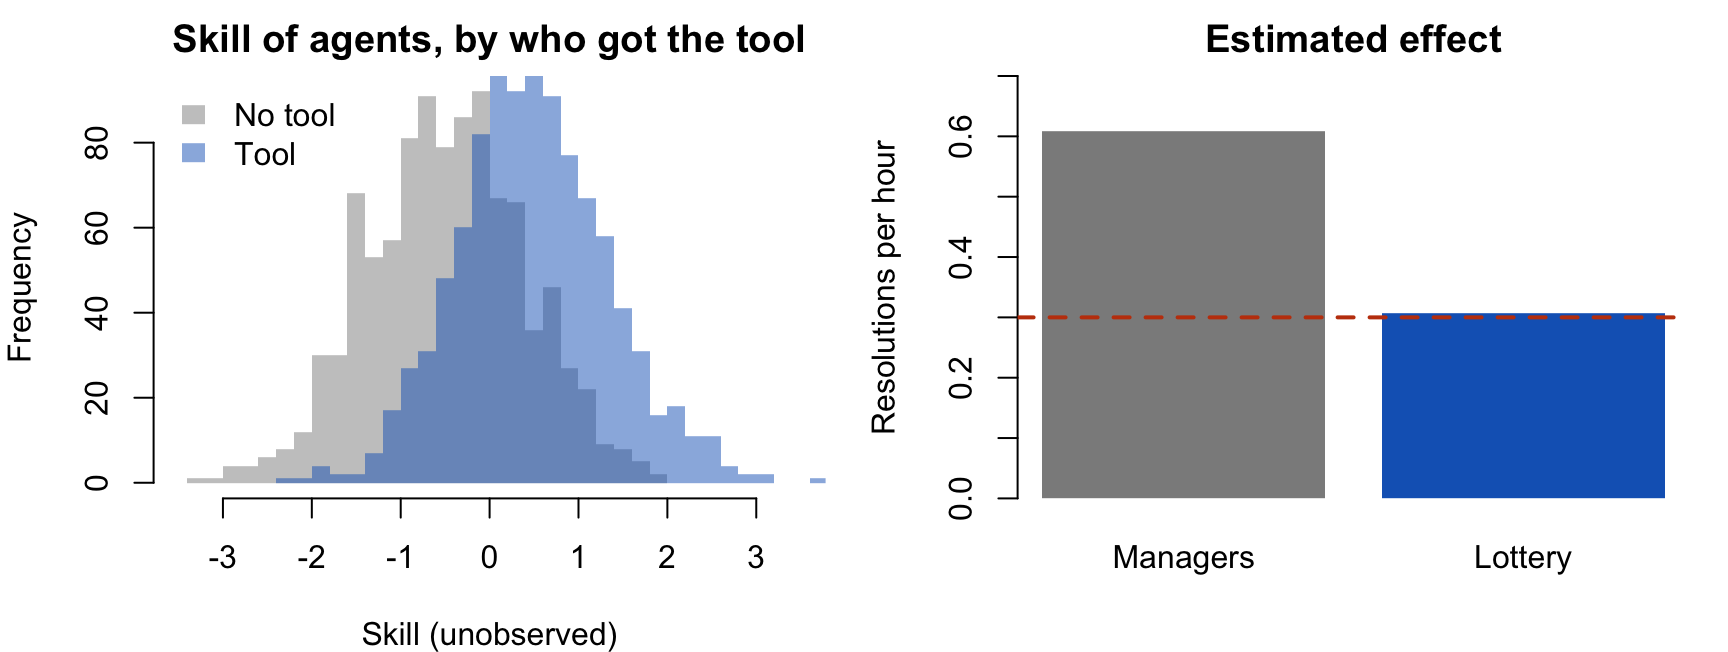
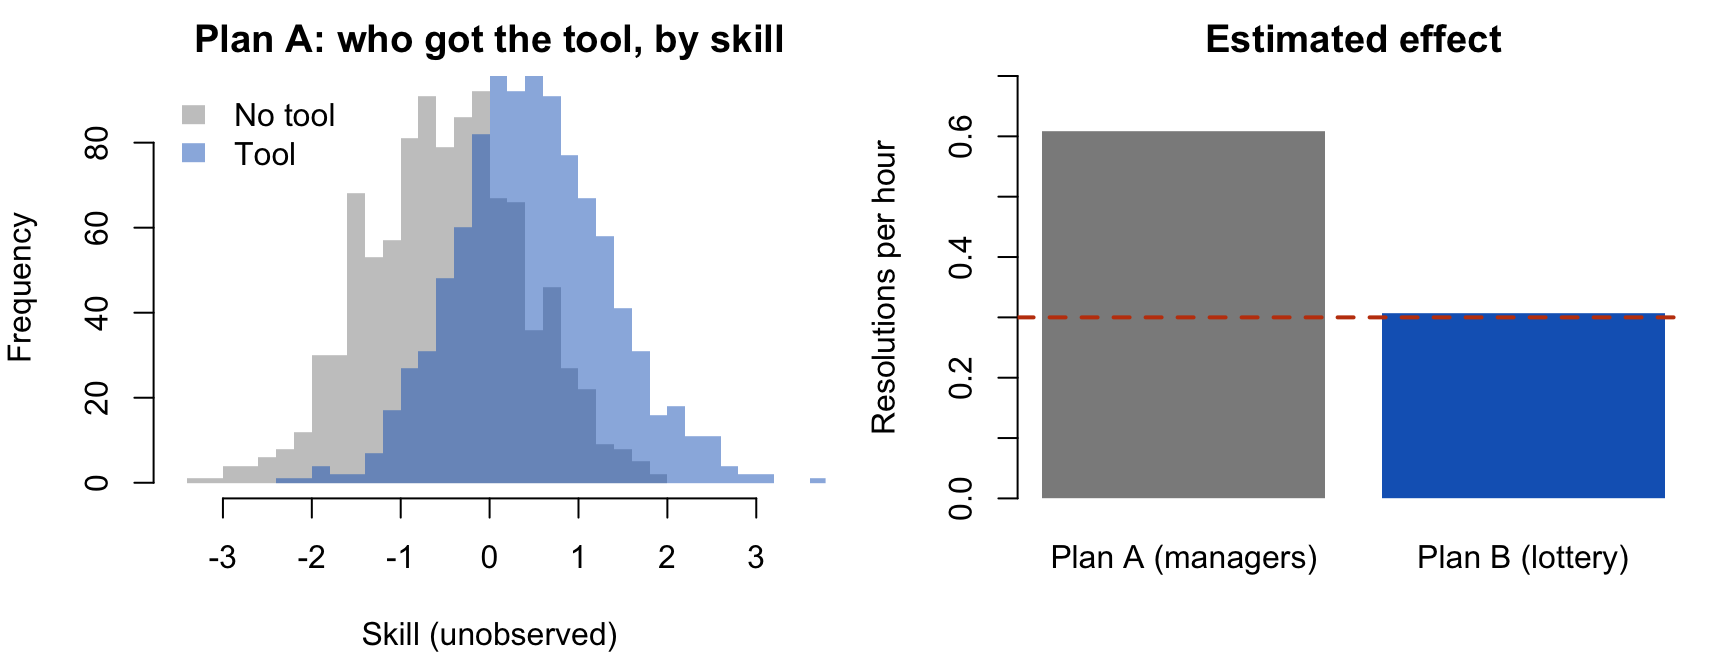
Clarify Design 1 and the Chapter 2 running example

Changed region(s): [[0.0938, 0.0307, 0.4688, 0.092], [0.5938, 0.8282, 0.75, 0.8896], [0.8125, 0.8282, 0.9375, 0.8896]]

diff --git a/docs/Lectures/Ch02-Causal-Framework/Lecture-Causal-Framework.html b/docs/Lectures/Ch02-Causal-Framework/Lecture-Causal-Framework.html
@@ -390,6 +390,7 @@ window.Quarto = {
   <ul>
   <li><a href="#potential-outcomes" id="toc-potential-outcomes" class="nav-link active" data-scroll-target="#potential-outcomes">Potential Outcomes</a>
   <ul class="collapse">
+  <li><a href="#the-running-example" id="toc-the-running-example" class="nav-link" data-scroll-target="#the-running-example">The Running Example</a></li>
   <li><a href="#units-treatments-outcomes" id="toc-units-treatments-outcomes" class="nav-link" data-scroll-target="#units-treatments-outcomes">Units, Treatments, Outcomes</a></li>
   <li><a href="#a-potential-outcomes-table" id="toc-a-potential-outcomes-table" class="nav-link" data-scroll-target="#a-potential-outcomes-table">A Potential Outcomes Table</a></li>
   <li><a href="#what-happens-when-managers-choose" id="toc-what-happens-when-managers-choose" class="nav-link" data-scroll-target="#what-happens-when-managers-choose">What Happens When Managers Choose</a></li>
@@ -458,11 +459,33 @@ window.Quarto = {
 <ul>
 <li>Chapter 1 introduced the fundamental problem: we never see both potential outcomes for the same unit.</li>
 <li>This chapter builds the language used in the rest of the notes: potential outcomes, estimands, the assumptions about treatments (SUTVA), assignment mechanisms, and causal diagrams for deciding what to control for.</li>
-<li>The running example is a firm giving some workers access to a generative AI assistant.</li>
+<li>The running example is a firm giving some customer-support agents access to a generative AI assistant.</li>
 </ul>
 </div>
 <section id="potential-outcomes" class="level2">
 <h2 class="anchored" data-anchor-id="potential-outcomes">Potential Outcomes</h2>
+<section id="the-running-example" class="level3">
+<h3 class="anchored" data-anchor-id="the-running-example">The Running Example</h3>
+<div class="callout callout-style-default callout-note callout-titled">
+<div class="callout-header d-flex align-content-center">
+<div class="callout-icon-container">
+<i class="callout-icon"></i>
+</div>
+<div class="callout-title-container flex-fill">
+<span class="screen-reader-only">Note</span>An AI Assistant for Customer-Support Agents
+</div>
+</div>
+<div class="callout-body-container callout-body">
+<ul>
+<li><strong>Setting:</strong> the customer-support centre from the Chapter 1 case study. Agents answer customers’ questions in live chats.</li>
+<li><strong>Treatment:</strong> access to a generative AI assistant that reads each chat and suggests replies. Agents can accept, edit, or ignore the suggestions.</li>
+<li><strong>Outcome:</strong> tickets (customer issues) resolved per hour.</li>
+<li><strong>Question:</strong> how many more tickets per hour does an agent resolve with the assistant than without it?</li>
+</ul>
+<p>We follow eight agents, from new to expert, through this chapter. Real studies of such tools find the largest gains for less experienced agents (Chapters 8 and 9), and the made-up numbers here follow that pattern.</p>
+</div>
+</div>
+</section>
 <section id="units-treatments-outcomes" class="level3">
 <h3 class="anchored" data-anchor-id="units-treatments-outcomes">Units, Treatments, Outcomes</h3>
 <div class="callout callout-style-default callout-note callout-titled">
@@ -506,14 +529,14 @@ window.Quarto = {
 <i class="callout-icon"></i>
 </div>
 <div class="callout-title-container flex-fill">
-<span class="screen-reader-only">Note</span>Eight Customer-Support Workers (a Thought Experiment)
+<span class="screen-reader-only">Note</span>Eight Support Agents (Made-Up Numbers)
 </div>
 </div>
 <div class="callout-body-container callout-body">
 <table class="caption-top table">
 <thead>
 <tr class="header">
-<th>Worker</th>
+<th>Agent</th>
 <th style="text-align: center;"><span class="math inline">Y_i(0)</span>: without AI</th>
 <th style="text-align: center;"><span class="math inline">Y_i(1)</span>: with AI</th>
 <th style="text-align: center;"><span class="math inline">\tau_i</span></th>
@@ -570,7 +593,7 @@ window.Quarto = {
 </tr>
 </tbody>
 </table>
-<p>Average effect: <span class="math inline">\frac{1}{8}\sum_i \tau_i = +0.25</span> tickets per hour. Effects differ across workers, and in reality we only ever see one column for each.</p>
+<p>Average effect: <span class="math inline">\frac{1}{8}\sum_i \tau_i = +0.25</span> tickets per hour. Effects differ across agents, and in reality we only ever see one of the two outcome columns for each agent.</p>
 </div>
 </div>
 <div class="notes">
@@ -581,6 +604,7 @@ window.Quarto = {
 </section>
 <section id="what-happens-when-managers-choose" class="level3">
 <h3 class="anchored" data-anchor-id="what-happens-when-managers-choose">What Happens When Managers Choose</h3>
+<p>The table shows both outcomes for every agent, which real data never do. We use it to see what an observed comparison would report under two ways of handing out the tool: managers give it to their four strongest agents (E–H), or a lottery picks four agents. Because we know the true average effect (0.25), we can check which comparison gets it right.</p>
 <div class="cell">
 <details class="code-fold">
 <summary>Code</summary>
@@ -591,7 +615,7 @@ window.Quarto = {
 <span id="cb1-5"><a href="#cb1-5" aria-hidden="true" tabindex="-1"></a>)</span>
 <span id="cb1-6"><a href="#cb1-6" aria-hidden="true" tabindex="-1"></a>ate <span class="ot">&lt;-</span> <span class="fu">mean</span>(po<span class="sc">$</span>y1 <span class="sc">-</span> po<span class="sc">$</span>y0)</span>
 <span id="cb1-7"><a href="#cb1-7" aria-hidden="true" tabindex="-1"></a></span>
-<span id="cb1-8"><a href="#cb1-8" aria-hidden="true" tabindex="-1"></a><span class="co"># Scenario 1: managers give AI to their four strongest workers</span></span>
+<span id="cb1-8"><a href="#cb1-8" aria-hidden="true" tabindex="-1"></a><span class="co"># Scenario 1: managers give AI to their four strongest agents</span></span>
 <span id="cb1-9"><a href="#cb1-9" aria-hidden="true" tabindex="-1"></a>d_mgr <span class="ot">&lt;-</span> <span class="fu">as.integer</span>(po<span class="sc">$</span>worker <span class="sc">%in%</span> <span class="fu">c</span>(<span class="st">"E"</span>, <span class="st">"F"</span>, <span class="st">"G"</span>, <span class="st">"H"</span>))</span>
 <span id="cb1-10"><a href="#cb1-10" aria-hidden="true" tabindex="-1"></a>naive_mgr <span class="ot">&lt;-</span> <span class="fu">mean</span>(po<span class="sc">$</span>y1[d_mgr <span class="sc">==</span> <span class="dv">1</span>]) <span class="sc">-</span> <span class="fu">mean</span>(po<span class="sc">$</span>y0[d_mgr <span class="sc">==</span> <span class="dv">0</span>])</span>
 <span id="cb1-11"><a href="#cb1-11" aria-hidden="true" tabindex="-1"></a></span>
@@ -612,11 +636,21 @@ window.Quarto = {
           0.250           1.100           0.249           0.375 </code></pre>
 </div>
 </div>
-<div class="notes">
+<div class="callout callout-style-default callout-tip callout-titled">
+<div class="callout-header d-flex align-content-center">
+<div class="callout-icon-container">
+<i class="callout-icon"></i>
+</div>
+<div class="callout-title-container flex-fill">
+<span class="screen-reader-only">Tip</span>Reading the Result
+</div>
+</div>
+<div class="callout-body-container callout-body">
 <ul>
-<li>When managers choose the strongest workers, the comparison overstates the effect even though those workers gain the least: their high baseline does the work.</li>
-<li>Under a lottery, the comparison is right on average; any single lottery can still be off (the standard deviation). Chapter 3 is about that sampling variation.</li>
+<li><strong>Managers choose:</strong> agents E–H with the tool against agents A–D without it gives 1.10, more than four times the true 0.25. Most of the gap is the strong agents’ higher output even without AI, and they are the agents who gain least from it.</li>
+<li><strong>Lottery:</strong> averaged over 10,000 lotteries, the comparison gives 0.25, the true effect. With only eight agents, a single lottery can still miss by about 0.37 (the standard deviation). Chapter 3 deals with this chance variation.</li>
 </ul>
+</div>
 </div>
 </section>
 </section>
@@ -682,7 +716,7 @@ window.Quarto = {
 </div>
 </div>
 <div class="callout-body-container callout-body">
-<p>If managers give the tool to the experts (E–H), the ATT is <span class="math inline">+0.05</span>, while the ATC (new and mid-level workers) is <span class="math inline">+0.45</span>. Both are “the effect of AI”, and they differ by a factor of nine. Always say whose effect you are estimating.</p>
+<p>If managers give the tool to the experts (E–H), the ATT is <span class="math inline">+0.05</span>, while the ATC (new and mid-level agents) is <span class="math inline">+0.45</span>. Both are “the effect of AI”, and they differ by a factor of nine. Always say whose effect you are estimating.</p>
 </div>
 </div>
 </section>
@@ -1034,7 +1068,7 @@ window.Quarto = {
 <div class="incremental">
 <ol class="incremental" type="1">
 <li><strong>Read</strong>: <span class="citation" data-cites="holland1986statistics">Holland (<a href="#ref-holland1986statistics" role="doc-biblioref">1986</a>)</span>; <span class="citation" data-cites="cinelli2024crash">Cinelli et al. (<a href="#ref-cinelli2024crash" role="doc-biblioref">2024</a>)</span></li>
-<li><strong>Practice</strong>: In the eight-worker simulation, let managers give AI to the four <em>newest</em> workers. Is the naive comparison now too high or too low? Why?</li>
+<li><strong>Practice</strong>: In the eight-agent simulation, let managers give AI to the four <em>newest</em> agents. Is the naive comparison now too high or too low? Why?</li>
 <li><strong>Think</strong>: For a policy you know well, write down the treatment, the outcome, the estimand, and the assignment mechanism</li>
 <li><strong>Next Class</strong>: Randomized experiments: design and inference (Chapter 3)</li>
 </ol>
@@ -1056,44 +1090,6 @@ Holland, Paul W. 1986. <span>“Statistics and Causal Inference.”</span> <em>J
 </section>
 
 </main> <!-- /main -->
-
-<script>
-  // htmlwidgets need to know to resize themselves when slides are shown/hidden.
-  // Fire the "slideenter" event (handled by htmlwidgets.js) when the current
-  // slide changes (different for each slide format).
-  (function () {
-    // dispatch for htmlwidgets
-    function fireSlideEnter() {
-      const event = window.document.createEvent("Event");
-      event.initEvent("slideenter", true, true);
-      window.document.dispatchEvent(event);
-    }
-
-    function fireSlideChanged(previousSlide, currentSlide) {
-      fireSlideEnter();
-
-      // dispatch for shiny
-      if (window.jQuery) {
-        if (previousSlide) {
-          window.jQuery(previousSlide).trigger("hidden");
-        }
-        if (currentSlide) {
-          window.jQuery(currentSlide).trigger("shown");
-        }
-      }
-    }
-
-    // hookup for slidy
-    if (window.w3c_slidy) {
-      window.w3c_slidy.add_observer(function (slide_num) {
-        // slide_num starts at position 1
-        fireSlideChanged(null, w3c_slidy.slides[slide_num - 1]);
-      });
-    }
-
-  })();
-</script>
-
 <script id="quarto-html-after-body" type="application/javascript">
   window.document.addEventListener("DOMContentLoaded", function (event) {
     const icon = "";

diff --git a/docs/Lectures/Ch02-Causal-Framework/Lecture-Causal-Framework.slides.html b/docs/Lectures/Ch02-Causal-Framework/Lecture-Causal-Framework.slides.html
@@ -261,7 +261,7 @@ Fei Huang, UNSW Sydney
 <ul>
 <li>Chapter 1 introduced the fundamental problem: we never see both potential outcomes for the same unit.</li>
 <li>This chapter builds the language used in the rest of the notes: potential outcomes, estimands, the assumptions about treatments (SUTVA), assignment mechanisms, and causal diagrams for deciding what to control for.</li>
-<li>The running example is a firm giving some workers access to a generative AI assistant.</li>
+<li>The running example is a firm giving some customer-support agents access to a generative AI assistant.</li>
 </ul>
 <style type="text/css">
         span.MJX_Assistive_MathML {
@@ -279,6 +279,28 @@ Fei Huang, UNSW Sydney
 <section id="potential-outcomes" class="title-slide slide level1 center">
 <h1>Potential Outcomes</h1>
 
+</section>
+<section id="the-running-example" class="slide level2 center">
+<h2>The Running Example</h2>
+<div class="callout callout-note callout-titled callout-style-default">
+<div class="callout-body">
+<div class="callout-title">
+<div class="callout-icon-container">
+<i class="callout-icon"></i>
+</div>
+<p><strong>An AI Assistant for Customer-Support Agents</strong></p>
+</div>
+<div class="callout-content">
+<ul>
+<li><strong>Setting:</strong> the customer-support centre from the Chapter 1 case study. Agents answer customers’ questions in live chats.</li>
+<li><strong>Treatment:</strong> access to a generative AI assistant that reads each chat and suggests replies. Agents can accept, edit, or ignore the suggestions.</li>
+<li><strong>Outcome:</strong> tickets (customer issues) resolved per hour.</li>
+<li><strong>Question:</strong> how many more tickets per hour does an agent resolve with the assistant than without it?</li>
+</ul>
+<p>We follow eight agents, from new to expert, through this chapter. Real studies of such tools find the largest gains for less experienced agents (Chapters 8 and 9), and the made-up numbers here follow that pattern.</p>
+</div>
+</div>
+</div>
 </section>
 <section id="units-treatments-outcomes" class="slide level2 center">
 <h2>Units, Treatments, Outcomes</h2>
@@ -323,13 +345,13 @@ Fei Huang, UNSW Sydney
 <div class="callout-icon-container">
 <i class="callout-icon"></i>
 </div>
-<p><strong>Eight Customer-Support Workers (a Thought Experiment)</strong></p>
+<p><strong>Eight Support Agents (Made-Up Numbers)</strong></p>
 </div>
 <div class="callout-content">
 <table class="caption-top">
 <thead>
 <tr class="header">
-<th>Worker</th>
+<th>Agent</th>
 <th style="text-align: center;"><span class="math inline">Y_i(0)</span>: without AI</th>
 <th style="text-align: center;"><span class="math inline">Y_i(1)</span>: with AI</th>
 <th style="text-align: center;"><span class="math inline">\tau_i</span></th>
@@ -386,7 +408,7 @@ Fei Huang, UNSW Sydney
 </tr>
 </tbody>
 </table>
-<p>Average effect: <span class="math inline">\frac{1}{8}\sum_i \tau_i = +0.25</span> tickets per hour. Effects differ across workers, and in reality we only ever see one column for each.</p>
+<p>Average effect: <span class="math inline">\frac{1}{8}\sum_i \tau_i = +0.25</span> tickets per hour. Effects differ across agents, and in reality we only ever see one of the two outcome columns for each agent.</p>
 </div>
 </div>
 </div>
@@ -408,6 +430,7 @@ Fei Huang, UNSW Sydney
 </section>
 <section id="what-happens-when-managers-choose" class="slide level2 center">
 <h2>What Happens When Managers Choose</h2>
+<p>The table shows both outcomes for every agent, which real data never do. We use it to see what an observed comparison would report under two ways of handing out the tool: managers give it to their four strongest agents (E–H), or a lottery picks four agents. Because we know the true average effect (0.25), we can check which comparison gets it right.</p>
 <div class="cell">
 <details class="code-fold">
 <summary>Code</summary>
@@ -418,7 +441,7 @@ Fei Huang, UNSW Sydney
 <span id="cb1-5"><a></a>)</span>
 <span id="cb1-6"><a></a>ate <span class="ot">&lt;-</span> <span class="fu">mean</span>(po<span class="sc">$</span>y1 <span class="sc">-</span> po<span class="sc">$</span>y0)</span>
 <span id="cb1-7"><a></a></span>
-<span id="cb1-8"><a></a><span class="co"># Scenario 1: managers give AI to their four strongest workers</span></span>
+<span id="cb1-8"><a></a><span class="co"># Scenario 1: managers give AI to their four strongest agents</span></span>
 <span id="cb1-9"><a></a>d_mgr <span class="ot">&lt;-</span> <span class="fu">as.integer</span>(po<span class="sc">$</span>worker <span class="sc">%in%</span> <span class="fu">c</span>(<span class="st">"E"</span>, <span class="st">"F"</span>, <span class="st">"G"</span>, <span class="st">"H"</span>))</span>
 <span id="cb1-10"><a></a>naive_mgr <span class="ot">&lt;-</span> <span class="fu">mean</span>(po<span class="sc">$</span>y1[d_mgr <span class="sc">==</span> <span class="dv">1</span>]) <span class="sc">-</span> <span class="fu">mean</span>(po<span class="sc">$</span>y0[d_mgr <span class="sc">==</span> <span class="dv">0</span>])</span>
 <span id="cb1-11"><a></a></span>
@@ -439,22 +462,22 @@ Fei Huang, UNSW Sydney
           0.250           1.100           0.249           0.375 </code></pre>
 </div>
 </div>
-<aside class="notes">
+<div class="callout callout-tip callout-titled callout-style-default">
+<div class="callout-body">
+<div class="callout-title">
+<div class="callout-icon-container">
+<i class="callout-icon"></i>
+</div>
+<p><strong>Reading the Result</strong></p>
+</div>
+<div class="callout-content">
 <ul>
-<li>When managers choose the strongest workers, the comparison overstates the effect even though those workers gain the least: their high baseline does the work.</li>
-<li>Under a lottery, the comparison is right on average; any single lottery can still be off (the standard deviation). Chapter 3 is about that sampling variation.</li>
+<li><strong>Managers choose:</strong> agents E–H with the tool against agents A–D without it gives 1.10, more than four times the true 0.25. Most of the gap is the strong agents’ higher output even without AI, and they are the agents who gain least from it.</li>
+<li><strong>Lottery:</strong> averaged over 10,000 lotteries, the comparison gives 0.25, the true effect. With only eight agents, a single lottery can still miss by about 0.37 (the standard deviation). Chapter 3 deals with this chance variation.</li>
 </ul>
-<style type="text/css">
-        span.MJX_Assistive_MathML {
-          position:absolute!important;
-          clip: rect(1px, 1px, 1px, 1px);
-          padding: 1px 0 0 0!important;
-          border: 0!important;
-          height: 1px!important;
-          width: 1px!important;
-          overflow: hidden!important;
-          display:block!important;
-      }</style></aside>
+</div>
+</div>
+</div>
 </section></section>
 <section>
 <section id="estimands" class="title-slide slide level1 center">
@@ -520,7 +543,7 @@ Fei Huang, UNSW Sydney
 <p><strong>In the AI Example</strong></p>
 </div>
 <div class="callout-content">
-<p>If managers give the tool to the experts (E–H), the ATT is <span class="math inline">+0.05</span>, while the ATC (new and mid-level workers) is <span class="math inline">+0.45</span>. Both are “the effect of AI”, and they differ by a factor of nine. Always say whose effect you are estimating.</p>
+<p>If managers give the tool to the experts (E–H), the ATT is <span class="math inline">+0.05</span>, while the ATC (new and mid-level agents) is <span class="math inline">+0.45</span>. Both are “the effect of AI”, and they differ by a factor of nine. Always say whose effect you are estimating.</p>
 </div>
 </div>
 </div>
@@ -898,7 +921,7 @@ Fei Huang, UNSW Sydney
 <h2>Next Steps</h2>
 <ol type="1">
 <li class="fragment"><strong>Read</strong>: <span class="citation" data-cites="holland1986statistics">Holland (<a href="#/references" role="doc-biblioref" onclick="">1986</a>)</span>; <span class="citation" data-cites="cinelli2024crash">Cinelli et al. (<a href="#/references" role="doc-biblioref" onclick="">2024</a>)</span></li>
-<li class="fragment"><strong>Practice</strong>: In the eight-worker simulation, let managers give AI to the four <em>newest</em> workers. Is the naive comparison now too high or too low? Why?</li>
+<li class="fragment"><strong>Practice</strong>: In the eight-agent simulation, let managers give AI to the four <em>newest</em> agents. Is the naive comparison now too high or too low? Why?</li>
 <li class="fragment"><strong>Think</strong>: For a policy you know well, write down the treatment, the outcome, the estimand, and the assignment mechanism</li>
 <li class="fragment"><strong>Next Class</strong>: Randomized experiments: design and inference (Chapter 3)</li>
 </ol>

diff --git a/docs/Lectures/Ch01-Introduction/Lecture-Introduction.html b/docs/Lectures/Ch01-Introduction/Lecture-Introduction.html
@@ -1117,7 +1117,7 @@ window.Quarto = {
 </section>
 <section id="design-1-randomized-experiment" class="level3">
 <h3 class="anchored" data-anchor-id="design-1-randomized-experiment">Design 1: Randomized Experiment</h3>
-<p>Managers give the assistant to the agents they expect to use it well, who tend to be their strongest. The firm could instead hold a lottery.</p>
+<p>The firm considers two ways to roll out the tool. Plan A: managers choose who gets it, and they tend to pick their strongest agents. Plan B: a lottery decides. The plot compares the two plans.</p>
 <div class="cell">
 <details class="code-fold">
 <summary>Code</summary>
@@ -1140,10 +1140,10 @@ window.Quarto = {
 <span id="cb3-17"><a href="#cb3-17" aria-hidden="true" tabindex="-1"></a></span>
 <span id="cb3-18"><a href="#cb3-18" aria-hidden="true" tabindex="-1"></a><span class="fu">par</span>(<span class="at">mfrow =</span> <span class="fu">c</span>(<span class="dv">1</span>, <span class="dv">2</span>), <span class="at">mar =</span> <span class="fu">c</span>(<span class="dv">4</span>, <span class="dv">4</span>, <span class="dv">2</span>, <span class="dv">1</span>))</span>
 <span id="cb3-19"><a href="#cb3-19" aria-hidden="true" tabindex="-1"></a><span class="fu">hist</span>(skill[pick <span class="sc">==</span> <span class="dv">0</span>], <span class="at">breaks =</span> <span class="dv">30</span>, <span class="at">col =</span> <span class="fu">adjustcolor</span>(grey, <span class="fl">0.5</span>), <span class="at">border =</span> <span class="cn">NA</span>, <span class="at">xlim =</span> <span class="fu">c</span>(<span class="sc">-</span><span class="fl">3.5</span>, <span class="fl">3.5</span>),</span>
-<span id="cb3-20"><a href="#cb3-20" aria-hidden="true" tabindex="-1"></a>     <span class="at">main =</span> <span class="st">"Skill of agents, by who got the tool"</span>, <span class="at">xlab =</span> <span class="st">"Skill (unobserved)"</span>)</span>
+<span id="cb3-20"><a href="#cb3-20" aria-hidden="true" tabindex="-1"></a>     <span class="at">main =</span> <span class="st">"Plan A: who got the tool, by skill"</span>, <span class="at">xlab =</span> <span class="st">"Skill (unobserved)"</span>)</span>
 <span id="cb3-21"><a href="#cb3-21" aria-hidden="true" tabindex="-1"></a><span class="fu">hist</span>(skill[pick <span class="sc">==</span> <span class="dv">1</span>], <span class="at">breaks =</span> <span class="dv">30</span>, <span class="at">col =</span> <span class="fu">adjustcolor</span>(blue, <span class="fl">0.5</span>), <span class="at">border =</span> <span class="cn">NA</span>, <span class="at">add =</span> <span class="cn">TRUE</span>)</span>
 <span id="cb3-22"><a href="#cb3-22" aria-hidden="true" tabindex="-1"></a><span class="fu">legend</span>(<span class="st">"topleft"</span>, <span class="fu">c</span>(<span class="st">"No tool"</span>, <span class="st">"Tool"</span>), <span class="at">fill =</span> <span class="fu">adjustcolor</span>(<span class="fu">c</span>(grey, blue), <span class="fl">0.5</span>), <span class="at">border =</span> <span class="cn">NA</span>, <span class="at">bty =</span> <span class="st">"n"</span>)</span>
-<span id="cb3-23"><a href="#cb3-23" aria-hidden="true" tabindex="-1"></a><span class="fu">barplot</span>(<span class="fu">c</span>(<span class="at">Managers =</span> naive_pick, <span class="at">Lottery =</span> rct), <span class="at">col =</span> <span class="fu">c</span>(grey, blue), <span class="at">border =</span> <span class="cn">NA</span>, <span class="at">ylim =</span> <span class="fu">c</span>(<span class="dv">0</span>, <span class="fl">0.7</span>),</span>
+<span id="cb3-23"><a href="#cb3-23" aria-hidden="true" tabindex="-1"></a><span class="fu">barplot</span>(<span class="fu">c</span>(<span class="st">"Plan A (managers)"</span> <span class="ot">=</span> naive_pick, <span class="st">"Plan B (lottery)"</span> <span class="ot">=</span> rct), <span class="at">col =</span> <span class="fu">c</span>(grey, blue), <span class="at">border =</span> <span class="cn">NA</span>, <span class="at">ylim =</span> <span class="fu">c</span>(<span class="dv">0</span>, <span class="fl">0.7</span>),</span>
 <span id="cb3-24"><a href="#cb3-24" aria-hidden="true" tabindex="-1"></a>        <span class="at">main =</span> <span class="st">"Estimated effect"</span>, <span class="at">ylab =</span> <span class="st">"Resolutions per hour"</span>)</span>
 <span id="cb3-25"><a href="#cb3-25" aria-hidden="true" tabindex="-1"></a><span class="fu">abline</span>(<span class="at">h =</span> tau, <span class="at">col =</span> orange, <span class="at">lty =</span> <span class="dv">2</span>, <span class="at">lwd =</span> <span class="dv">2</span>)</span></code></pre></div><button title="Copy to Clipboard" class="code-copy-button"><i class="bi"></i></button></div>
 </details>
@@ -1169,9 +1169,10 @@ window.Quarto = {
 </div>
 <div class="callout-body-container callout-body">
 <ul>
-<li><strong>Simple comparison:</strong> agents with the tool against agents without it, when managers chose: 0.61. Too high, because the chosen agents were stronger to begin with (left panel).</li>
-<li><strong>Randomized experiment:</strong> a lottery decides who gets the tool, so both groups have the same mix of skill. Their difference is the effect: 0.31.</li>
-<li><strong>Relies on:</strong> assignment really being random, and treated agents not affecting untreated ones.</li>
+<li><strong>Plan A, managers choose (simple comparison):</strong> comparing agents with the tool against agents without it gives 0.61. Too high, because the chosen agents were stronger to begin with (left panel).</li>
+<li><strong>Plan B, a lottery (randomized experiment):</strong> chance decides who gets the tool, so both groups have the same mix of skill, measured or not. Their difference is the effect: 0.31.</li>
+<li><strong>The lottery is the better design.</strong> It needs no assumption beyond the randomization being carried out as planned, and treated agents not affecting untreated ones.</li>
+<li><strong>Timing matters:</strong> a lottery is only possible before the rollout. If managers have already chosen, see Designs 4 and 7.</li>
 </ul>
 </div>
 </div>

diff --git a/docs/Lectures/Ch01-Introduction/Lecture-Introduction.slides.html b/docs/Lectures/Ch01-Introduction/Lecture-Introduction.slides.html
@@ -957,7 +957,7 @@ Fei Huang, UNSW Sydney
 </section>
 <section id="design-1-randomized-experiment" class="slide level2 center">
 <h2>Design 1: Randomized Experiment</h2>
-<p>Managers give the assistant to the agents they expect to use it well, who tend to be their strongest. The firm could instead hold a lottery.</p>
+<p>The firm considers two ways to roll out the tool. Plan A: managers choose who gets it, and they tend to pick their strongest agents. Plan B: a lottery decides. The plot compares the two plans.</p>
 <div class="cell">
 <details class="code-fold">
 <summary>Code</summary>
@@ -980,10 +980,10 @@ Fei Huang, UNSW Sydney
 <span id="cb3-17"><a></a></span>
 <span id="cb3-18"><a></a><span class="fu">par</span>(<span class="at">mfrow =</span> <span class="fu">c</span>(<span class="dv">1</span>, <span class="dv">2</span>), <span class="at">mar =</span> <span class="fu">c</span>(<span class="dv">4</span>, <span class="dv">4</span>, <span class="dv">2</span>, <span class="dv">1</span>))</span>
 <span id="cb3-19"><a></a><span class="fu">hist</span>(skill[pick <span class="sc">==</span> <span class="dv">0</span>], <span class="at">breaks =</span> <span class="dv">30</span>, <span class="at">col =</span> <span class="fu">adjustcolor</span>(grey, <span class="fl">0.5</span>), <span class="at">border =</span> <span class="cn">NA</span>, <span class="at">xlim =</span> <span class="fu">c</span>(<span class="sc">-</span><span class="fl">3.5</span>, <span class="fl">3.5</span>),</span>
-<span id="cb3-20"><a></a>     <span class="at">main =</span> <span class="st">"Skill of agents, by who got the tool"</span>, <span class="at">xlab =</span> <span class="st">"Skill (unobserved)"</span>)</span>
+<span id="cb3-20"><a></a>     <span class="at">main =</span> <span class="st">"Plan A: who got the tool, by skill"</span>, <span class="at">xlab =</span> <span class="st">"Skill (unobserved)"</span>)</span>
 <span id="cb3-21"><a></a><span class="fu">hist</span>(skill[pick <span class="sc">==</span> <span class="dv">1</span>], <span class="at">breaks =</span> <span class="dv">30</span>, <span class="at">col =</span> <span class="fu">adjustcolor</span>(blue, <span class="fl">0.5</span>), <span class="at">border =</span> <span class="cn">NA</span>, <span class="at">add =</span> <span class="cn">TRUE</span>)</span>
 <span id="cb3-22"><a></a><span class="fu">legend</span>(<span class="st">"topleft"</span>, <span class="fu">c</span>(<span class="st">"No tool"</span>, <span class="st">"Tool"</span>), <span class="at">fill =</span> <span class="fu">adjustcolor</span>(<span class="fu">c</span>(grey, blue), <span class="fl">0.5</span>), <span class="at">border =</span> <span class="cn">NA</span>, <span class="at">bty =</span> <span class="st">"n"</span>)</span>
-<span id="cb3-23"><a></a><span class="fu">barplot</span>(<span class="fu">c</span>(<span class="at">Managers =</span> naive_pick, <span class="at">Lottery =</span> rct), <span class="at">col =</span> <span class="fu">c</span>(grey, blue), <span class="at">border =</span> <span class="cn">NA</span>, <span class="at">ylim =</span> <span class="fu">c</span>(<span class="dv">0</span>, <span class="fl">0.7</span>),</span>
+<span id="cb3-23"><a></a><span class="fu">barplot</span>(<span class="fu">c</span>(<span class="st">"Plan A (managers)"</span> <span class="ot">=</span> naive_pick, <span class="st">"Plan B (lottery)"</span> <span class="ot">=</span> rct), <span class="at">col =</span> <span class="fu">c</span>(grey, blue), <span class="at">border =</span> <span class="cn">NA</span>, <span class="at">ylim =</span> <span class="fu">c</span>(<span class="dv">0</span>, <span class="fl">0.7</span>),</span>
 <span id="cb3-24"><a></a>        <span class="at">main =</span> <span class="st">"Estimated effect"</span>, <span class="at">ylab =</span> <span class="st">"Resolutions per hour"</span>)</span>
 <span id="cb3-25"><a></a><span class="fu">abline</span>(<span class="at">h =</span> tau, <span class="at">col =</span> orange, <span class="at">lty =</span> <span class="dv">2</span>, <span class="at">lwd =</span> <span class="dv">2</span>)</span></code></pre></div><button title="Copy to Clipboard" class="code-copy-button"><i class="bi"></i></button></div>
 </details>
@@ -1002,9 +1002,10 @@ Fei Huang, UNSW Sydney
 </div>
 <div class="callout-content">
 <ul>
-<li><strong>Simple comparison:</strong> agents with the tool against agents without it, when managers chose: 0.61. Too high, because the chosen agents were stronger to begin with (left panel).</li>
-<li><strong>Randomized experiment:</strong> a lottery decides who gets the tool, so both groups have the same mix of skill. Their difference is the effect: 0.31.</li>
-<li><strong>Relies on:</strong> assignment really being random, and treated agents not affecting untreated ones.</li>
+<li><strong>Plan A, managers choose (simple comparison):</strong> comparing agents with the tool against agents without it gives 0.61. Too high, because the chosen agents were stronger to begin with (left panel).</li>
+<li><strong>Plan B, a lottery (randomized experiment):</strong> chance decides who gets the tool, so both groups have the same mix of skill, measured or not. Their difference is the effect: 0.31.</li>
+<li><strong>The lottery is the better design.</strong> It needs no assumption beyond the randomization being carried out as planned, and treated agents not affecting untreated ones.</li>
+<li><strong>Timing matters:</strong> a lottery is only possible before the rollout. If managers have already chosen, see Designs 4 and 7.</li>
 </ul>
 </div>
 </div>
